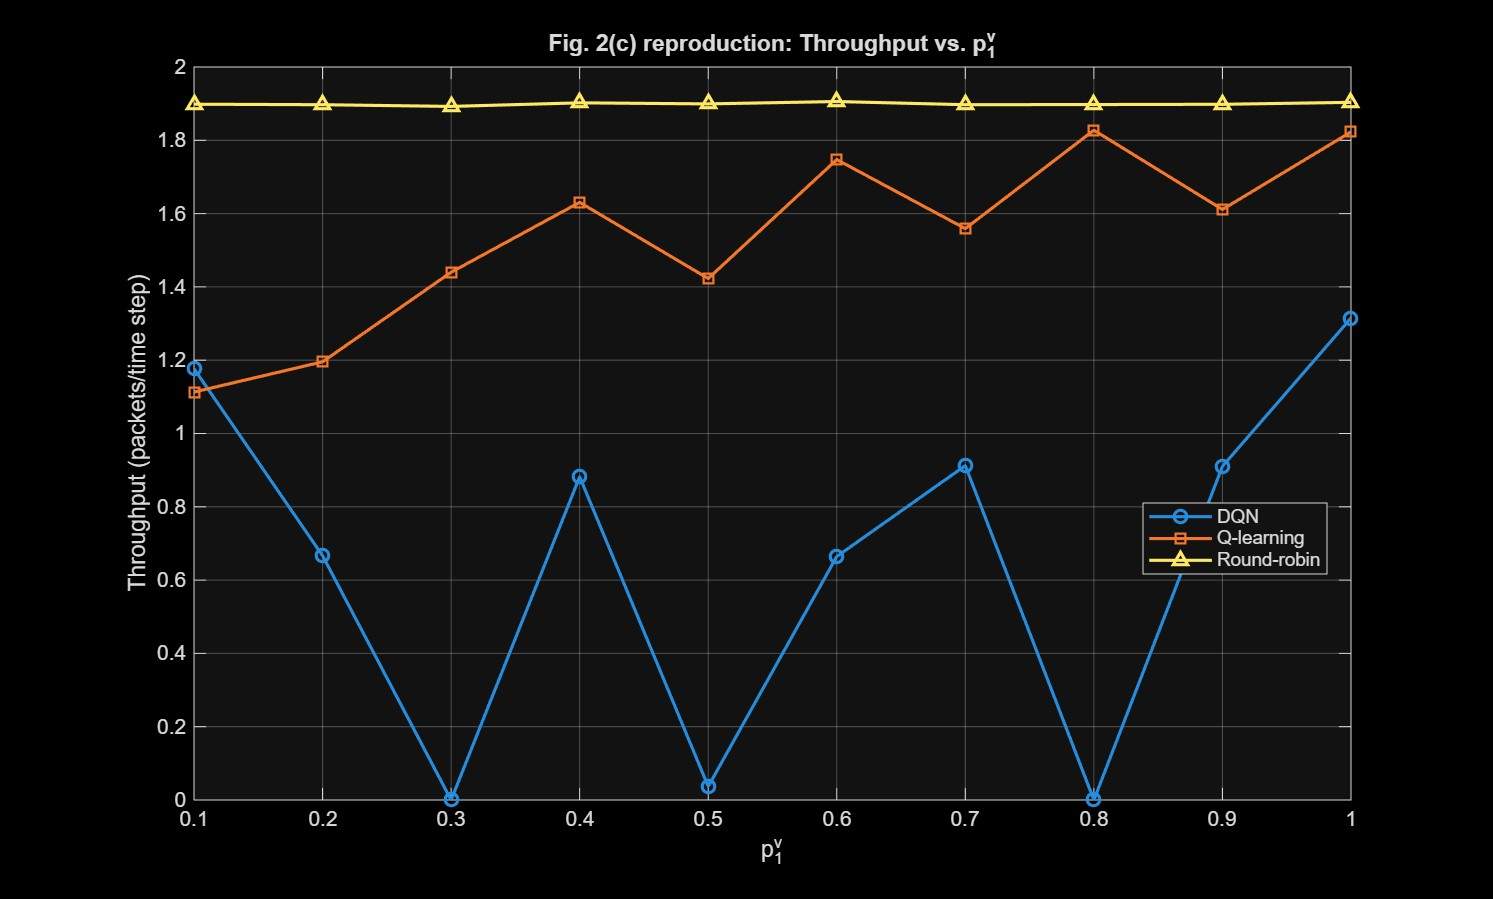
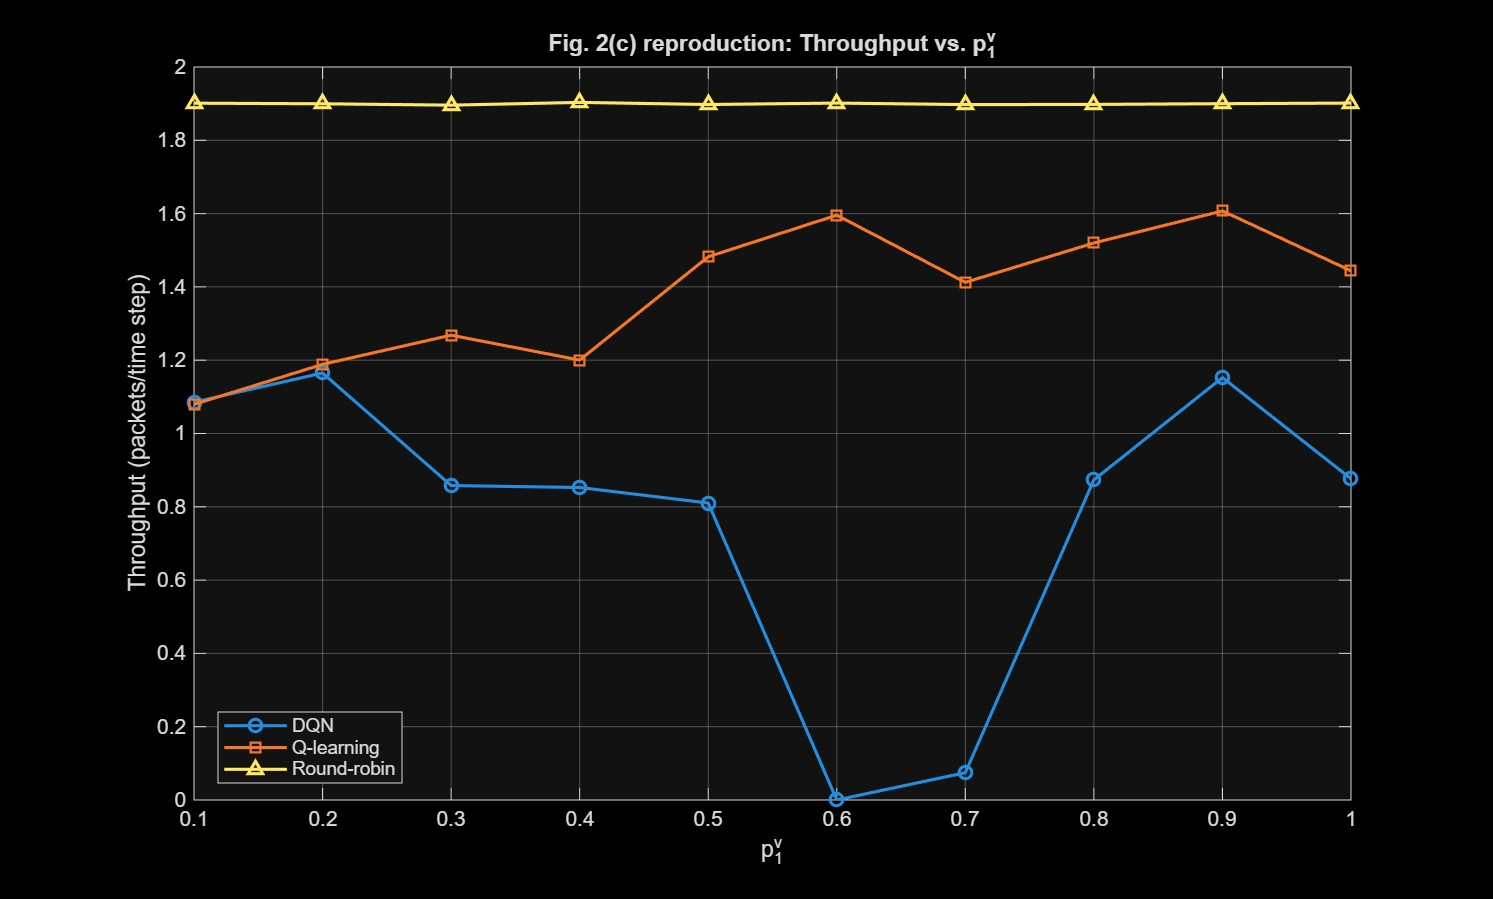
Unify training recipe (T=220, alpha=0.02, 200 eval episodes) across all four figures

diff --git a/simulation 26-09/fig2d_simulation/fig2d_missdetection_vs_p1v.m b/simulation 26-09/fig2d_simulation/fig2d_missdetection_vs_p1v.m
@@ -4,8 +4,8 @@ p1v_values = 0.1:0.1:1;
 n = numel(p1v_values);
 
 train_episodes = 800;
-T = 300;
-eval_episodes = 30;
+T = 220;
+eval_episodes = 200;
 
 md_dqn = zeros(n, 1);
 md_ql = zeros(n, 1);
@@ -17,7 +17,7 @@ for i = 1:n
 
     fprintf('p1_v = %.1f ... ', p.p1_v);
 
-    [Q, ~] = qlearning_train(p, train_episodes, T, 0.1);
+    [Q, ~] = qlearning_train(p, train_episodes, T, 0.02);
     [~, md_ql(i)] = eval_qtable_metrics(Q, p, eval_episodes, T);
 
     opts = struct('seed', i);

diff --git a/simulation 26-09/fig2c_simulation/fig2c_throughput_vs_p1v.m b/simulation 26-09/fig2c_simulation/fig2c_throughput_vs_p1v.m
@@ -4,8 +4,8 @@ p1v_values = 0.1:0.1:1;
 n = numel(p1v_values);
 
 train_episodes = 800;
-T = 300;
-eval_episodes = 30;
+T = 220;
+eval_episodes = 200;
 
 thr_dqn = zeros(n, 1);
 thr_ql = zeros(n, 1);
@@ -17,7 +17,7 @@ for i = 1:n
 
     fprintf('p1_v = %.1f ... ', p.p1_v);
 
-    [Q, ~] = qlearning_train(p, train_episodes, T, 0.1);
+    [Q, ~] = qlearning_train(p, train_episodes, T, 0.02);
     thr_ql(i) = eval_qtable_metrics(Q, p, eval_episodes, T);
 
     opts = struct('seed', i);
